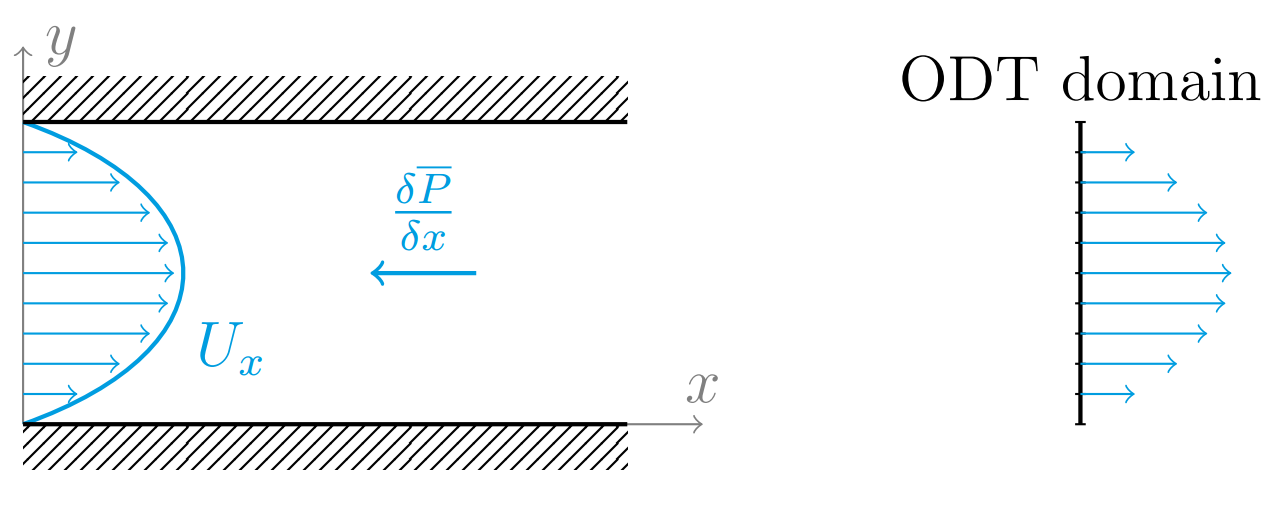
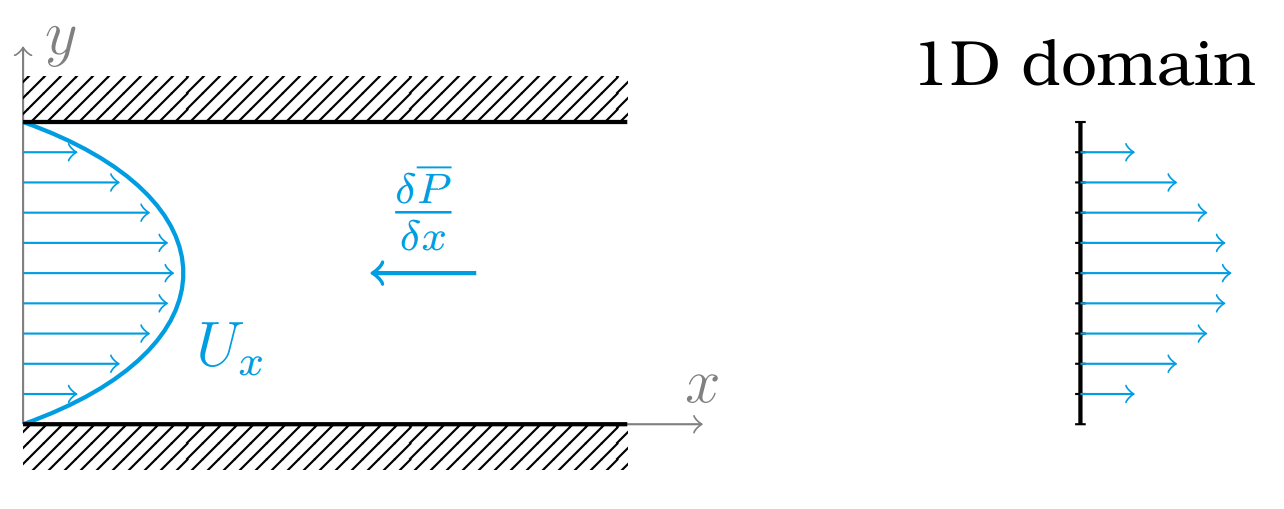
Working on improvements

Changed region(s): [[0.6854, 0.0589, 0.9969, 0.2063]]

diff --git a/css/pdf.css b/css/pdf.css
@@ -1,0 +1,178 @@
+/**
+ * This stylesheet is used to print reveal.js
+ * presentations to PDF.
+ *
+ * https://github.com/hakimel/reveal.js#pdf-export
+ */
+
+* {
+	-webkit-print-color-adjust: exact;
+}
+
+body {
+	margin: 0 auto !important;
+	border: 0;
+	padding: 0;
+	float: none !important;
+	overflow: visible;
+}
+
+html {
+	width: 100%;
+	height: 100%;
+	overflow: visible;
+}
+
+/* Remove any elements not needed in print. */
+.nestedarrow,
+.reveal .controls,
+.reveal .progress,
+.reveal .playback,
+.reveal.overview,
+.fork-reveal,
+.share-reveal,
+.state-background {
+	display: none !important;
+}
+
+h1, h2, h3, h4, h5, h6 {
+	text-shadow: 0 0 0 #000 !important;
+}
+
+.reveal pre code {
+	overflow: hidden !important;
+	font-family: Courier, 'Courier New', monospace !important;
+}
+
+ul, ol, div, p {
+	visibility: visible;
+	position: static;
+	width: auto;
+	height: auto;
+	display: block;
+	overflow: visible;
+	margin: auto;
+}
+.reveal {
+	width: auto !important;
+	height: auto !important;
+	overflow: hidden !important;
+}
+.reveal .slides {
+	position: static;
+	width: 100% !important;
+	height: auto !important;
+	zoom: 1 !important;
+
+	left: auto;
+	top: auto;
+	margin: 0 !important;
+	padding: 0 !important;
+
+	overflow: visible;
+	display: block;
+
+	-webkit-perspective: none;
+	   -moz-perspective: none;
+	    -ms-perspective: none;
+	        perspective: none;
+
+	-webkit-perspective-origin: 50% 50%; /* there isn't a none/auto value but 50-50 is the default */
+	   -moz-perspective-origin: 50% 50%;
+	    -ms-perspective-origin: 50% 50%;
+	        perspective-origin: 50% 50%;
+}
+
+.reveal .slides .pdf-page {
+	position: relative;
+	overflow: hidden;
+	z-index: 1;
+
+	page-break-after: always;
+}
+
+.reveal .slides section {
+	visibility: visible !important;
+	display: block !important;
+	position: absolute !important;
+
+	margin: 0 !important;
+	padding: 0 !important;
+	box-sizing: border-box !important;
+	min-height: 1px;
+
+	opacity: 1 !important;
+
+	-webkit-transform-style: flat !important;
+	   -moz-transform-style: flat !important;
+	    -ms-transform-style: flat !important;
+	        transform-style: flat !important;
+
+	-webkit-transform: none !important;
+	   -moz-transform: none !important;
+	    -ms-transform: none !important;
+	        transform: none !important;
+}
+
+.reveal section.stack {
+	position: relative !important;
+	margin: 0 !important;
+	padding: 0 !important;
+	page-break-after: avoid !important;
+	height: auto !important;
+	min-height: auto !important;
+}
+
+.reveal img {
+	box-shadow: none;
+}
+
+.reveal .roll {
+	overflow: visible;
+	line-height: 1em;
+}
+
+/* Slide backgrounds are placed inside of their slide when exporting to PDF */
+.reveal .slide-background {
+	display: block !important;
+	position: absolute;
+	top: 0;
+	left: 0;
+	width: 100%;
+	height: 100%;
+	z-index: auto !important;
+}
+
+/* Display slide speaker notes when 'showNotes' is enabled */
+.reveal.show-notes {
+	max-width: none;
+	max-height: none;
+}
+.reveal .speaker-notes-pdf {
+	display: block;
+	width: 100%;
+	height: auto;
+	max-height: none;
+	top: auto;
+	right: auto;
+	bottom: auto;
+	left: auto;
+	z-index: 100;
+}
+
+/* Layout option which makes notes appear on a separate page */
+.reveal .speaker-notes-pdf[data-layout="separate-page"] {
+	position: relative;
+	color: inherit;
+	background-color: transparent;
+	padding: 20px;
+	page-break-after: always;
+	border: 0;
+}
+
+/* Display slide numbers when 'slideNumber' is enabled */
+.reveal .slide-number-pdf {
+	display: block;
+	position: absolute;
+	font-size: 14px;
+}

diff --git a/index.html b/index.html
@@ -41,7 +41,10 @@
 	  	</div>
 
 		<div id="footer-right">
-		  	<div id="autor"> Hips | Pedro Pupo Sá da Costa </div>
+		  	<div id="autor">
+		  		Pedro Pupo Sá da Costa |
+		  		<span id="page_number">0</span>
+		  	</div>
 		</div>
 	</div>
 <!-- -->
@@ -77,8 +80,8 @@
 <!-- AGEMDA -->
 	<section title="Outline">
 		<ul>
-			<h3> Objectives                   </h3>
-			<h3> One Dimensional Turbulance   </h3>
+			<h3> Motivation                   </h3>
+			<h3> One Dimensional Turbulence   </h3>
 			<h3> Hierarchical Parcel Swapping </h3>
 			<h3> Future Work                  </h3>
 			<h3> Discussion                   </h3>
@@ -87,7 +90,7 @@
 <!-- -->
 
 <!-- Motivation -->
-	<section title="Objectives">
+	<section title="Motivation">
 		<ul>
 			<li  style="margin-bottom: 5%">
 				Generalize the XLES formulation to allow an implementation of
@@ -98,14 +101,24 @@
 				overall performance or provide application specific advantages.
 			</li>
 		</ul>
+
+
+		DNS - Solves Large and Small scales in all directions.
+
+		LES - Solves Large scales, models small scales in all directions.
+
+		ODT - Solves Large and Small scales in only one direction.
+
+		X-LES - Solves Large and Small scales in
+
 	</section>
 <!-- -->
 
-<!-- One Dimensional Turbulance -->
+<!-- One Dimensional Turbulence -->
 	<section>
-		<h1>One Dimensional Turbulance</h1>
+		<h1>One Dimensional Turbulence</h1>
 	</section>
-	<section title="One Dimensional Turbulance">
+	<section title="One Dimensional Turbulence">
 		<img src="img/channel.png" style="margin-bottom: 5%">
 
 		\[\begin{gather}
@@ -115,7 +128,7 @@
 		\end{gather}\]
 	</section>
 
-	<section title="One Dimensional Turbulance">
+	<section title="One Dimensional Turbulence">
 		<p style="margin-bottom: 5%">Eddy Event </p>
 		<img src="img/tripletMap.png"  style="width: 70%" >
 	</section>
@@ -354,8 +367,8 @@
 	</section>
 
 	<section title="References">
-		<ul >
-		1. <a  href="https://www.researchgate.net/profile/Alan_Kerstein/
+		<ul id="references" >
+		<a  href="https://www.researchgate.net/profile/Alan_Kerstein/
 		publication/257604387_Hierarchical_Parcel-Swapping_
 		Representation_of_Turbulent_Mixing_Part_1_Formulation_and_Scaling_
 		Properties/links/0deec53ab3113c693d000000/Hierarchical-Parcel-
@@ -364,9 +377,8 @@
 		Kerstein, Alan. "Hierarchical Parcel-Swapping Representation of
 		Turbulent Mixing. Part 1. Formulation and Scaling Properties."
 		Journal of Statistical Physics 153.1 (2013).
-		</a> <br>
-
-		2. <a href="https://www.researchgate.net/profile/Alan_Kerstein/
+		</a>
+		<a href="https://www.researchgate.net/profile/Alan_Kerstein/
 		publication/278113084_Hierarchical_parcel-swapping_representation_of_
 		turbulent_mixing_Part_2_Application_to_channel_flow/links/
 		56ce285d08aeb52500c36ba0/Hierarchical-parcel-swapping-representation-of-
@@ -374,10 +386,11 @@
 		Kerstein, Alan R. "Hierarchical parcel-swapping representation of
 		turbulent mixing. Part 2. Application to channel flow." Journal of
 		Fluid Mechanics 750 (2014): 421-463.
-		</a> <br>
-
-		3. <a href="https://aip.scitation.org/doi/abs/10.1063/1.3696304">
-		Lenaers, Peter, et al. "Rare backflow and extreme wall-normal velocity fluctuations in near-wall turbulence." Physics of fluids 24.3 (2012): 035110.
+		</a>
+		<a href="https://aip.scitation.org/doi/abs/10.1063/1.3696304">
+		Lenaers, Peter, et al. "Rare backflow and extreme wall-normal velocity
+		fluctuations in near-wall turbulence." Physics of fluids 24.3 (2012):
+		035110.
 		</a>
 		</ul>
 	</section>

diff --git a/css/main.css b/css/main.css
@@ -73,7 +73,7 @@ body {
   justify-content:    center;
   align-content:      center;
   flex-direction:     column;
-  padding-right:      2%;
+  padding-right:      4%;
   width:              50%;
 }
 
@@ -82,11 +82,23 @@ body {
   font-size:          3.2vh;
   font-weight:        700;
   height:             100%;
-  display:            flex;
   justify-content:    center;
   align-content:      center;
-  flex-direction:     column;
+  padding-top:        3vh;
   padding-left:       2%;
+}
+
+#footer-right #autor #page_number {
+  width: 2em;
+}
+
+
+.reveal .slide-number {
+  font-size: 0.5em;
+  bottom: 16px;
+  right:  1%;
+  color:  rgb(147, 161, 161);
+  background-color: #fff;
 }
 
 .reveal .progress {
@@ -134,4 +146,9 @@ svg rect.animate{
   line-height: 0.9em;
   font-size: 2;
   width: 50%;
+}
+
+#references a {
+  font-size: 0.7em;
+  padding-bottom: 0.3em;
 }

diff --git a/js/main.js b/js/main.js
@@ -17,7 +17,6 @@ Reveal.initialize({
 	progress: true,
 	history:  true,
 	center:   true,
-
 	transition: 'none', // none/fade/slide/convex/concave/zoom
 
 	// Factor of the display size that should remain empty around the content
@@ -89,12 +88,15 @@ function toggleHeaderAndFooter(){
 		$('#header').hide();
 		$('#footer').hide();
 		$('.progress').hide();
+		$('.slide-number').hide();
 	} else {
 		$('#header').show();
 		$('#slide-title').html( Reveal.getCurrentSlide().title );
 		$('#footer').show();
 		$('.progress').show();
+		$('.slide-number').show();
 	}
+	$('#page_number').html( Reveal.getIndices().h + 1 );
 }
 
 //Reveal.configure({ pdfMaxPagesPerSlide: 1 });
